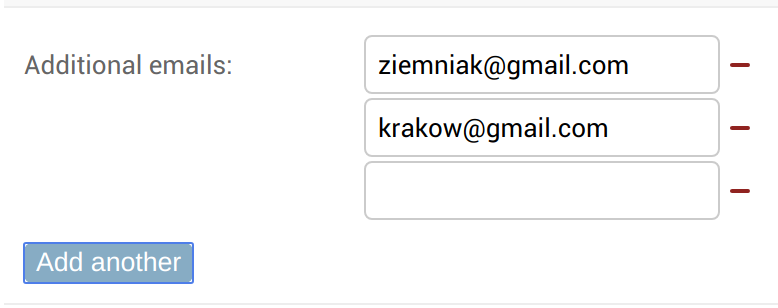
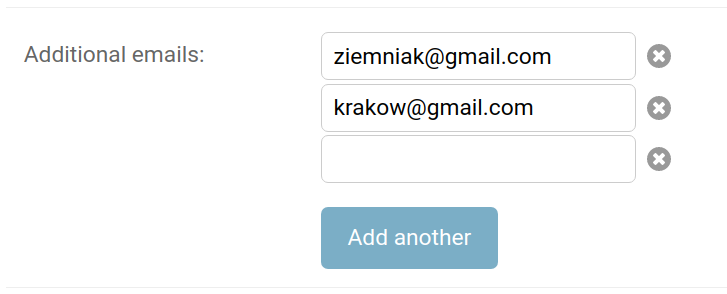
Making interface widget closer to the one in Django Admin. (#120)
* Making interface widget closer to the one in Django Admin.

* Adding after image with new style.

diff --git a/django_better_admin_arrayfield/templates/django_better_admin_arrayfield/forms/widgets/dynamic_array.html b/django_better_admin_arrayfield/templates/django_better_admin_arrayfield/forms/widgets/dynamic_array.html
@@ -2,17 +2,21 @@
 {% load i18n %}
 
 {% spaceless %}
-<div class="dynamic-array-widget">
-  <ul>
-    {% for subwidget in widget.subwidgets %}
-      <li class="array-item" {% if widget.is_none %}data-isNone="true" style="display: none"{% endif %}>
-        {% with widget=subwidget %}
-          {% include widget.template_name %}
-        {% endwith %}
-        <div class="remove"><div class="remove_sign"></div></div>
-      </li>
-    {% endfor %}
-  </ul>
-  <div><button type="button" class="add-array-item">{% trans "Add another" %}</button></div>
+<div class="related-widget-wrapper">
+    <div class="dynamic-array-widget">
+        <ul>
+            {% for subwidget in widget.subwidgets %}
+                <li class="array-item" {% if widget.is_none %}data-isNone="true" style="display: none"{% endif %}>
+                    {% with widget=subwidget %}
+                        {% include widget.template_name %}
+                    {% endwith %}
+                    <div class="remove">
+                        <div class="inline-deletelink"></div>
+                    </div>
+                </li>
+            {% endfor %}
+        </ul>
+        <div><input type="button" class="add-array-item" value="{% trans "Add another" %}"></div>
+    </div>
 </div>
 {% endspaceless %}

diff --git a/django_better_admin_arrayfield/static/css/django_better_admin_arrayfield.min.css b/django_better_admin_arrayfield/static/css/django_better_admin_arrayfield.min.css
@@ -1,1 +1,1 @@
-.dynamic-array-widget .array-item{display:flex;align-items:center}.dynamic-array-widget .remove_sign{width:10px;height:2px;background:#a41515;border-radius:1px}.dynamic-array-widget .remove{height:15px;display:flex;align-items:center;margin-left:5px}.dynamic-array-widget .remove:hover{cursor:pointer}.dynamic-array-widget button{height:20px;background:#79aec8;border-radius:4px;color:#fff;cursor:pointer;border:none}.dynamic-array-widget button:hover{background:#609ab6}
+.dynamic-array-widget .array-item{display:flex;align-items:center}.dynamic-array-widget .remove{height:15px;display:flex;align-items:center;margin-left:5px}.dynamic-array-widget .remove:hover{cursor:pointer}.dynamic-array-widget button{height:20px;background:#79aec8;border-radius:4px;color:#fff;cursor:pointer;border:none}.dynamic-array-widget button:hover{background:#609ab6}

diff --git a/django_better_admin_arrayfield/static/css/django_better_admin_arrayfield.css b/django_better_admin_arrayfield/static/css/django_better_admin_arrayfield.css
@@ -3,13 +3,6 @@
   align-items: center;
 }
 
-.dynamic-array-widget .remove_sign {
-  width: 10px;
-  height: 2px;
-  background: #a41515;
-  border-radius: 1px;
-}
-
 .dynamic-array-widget .remove {
   height: 15px;
   display: flex;
